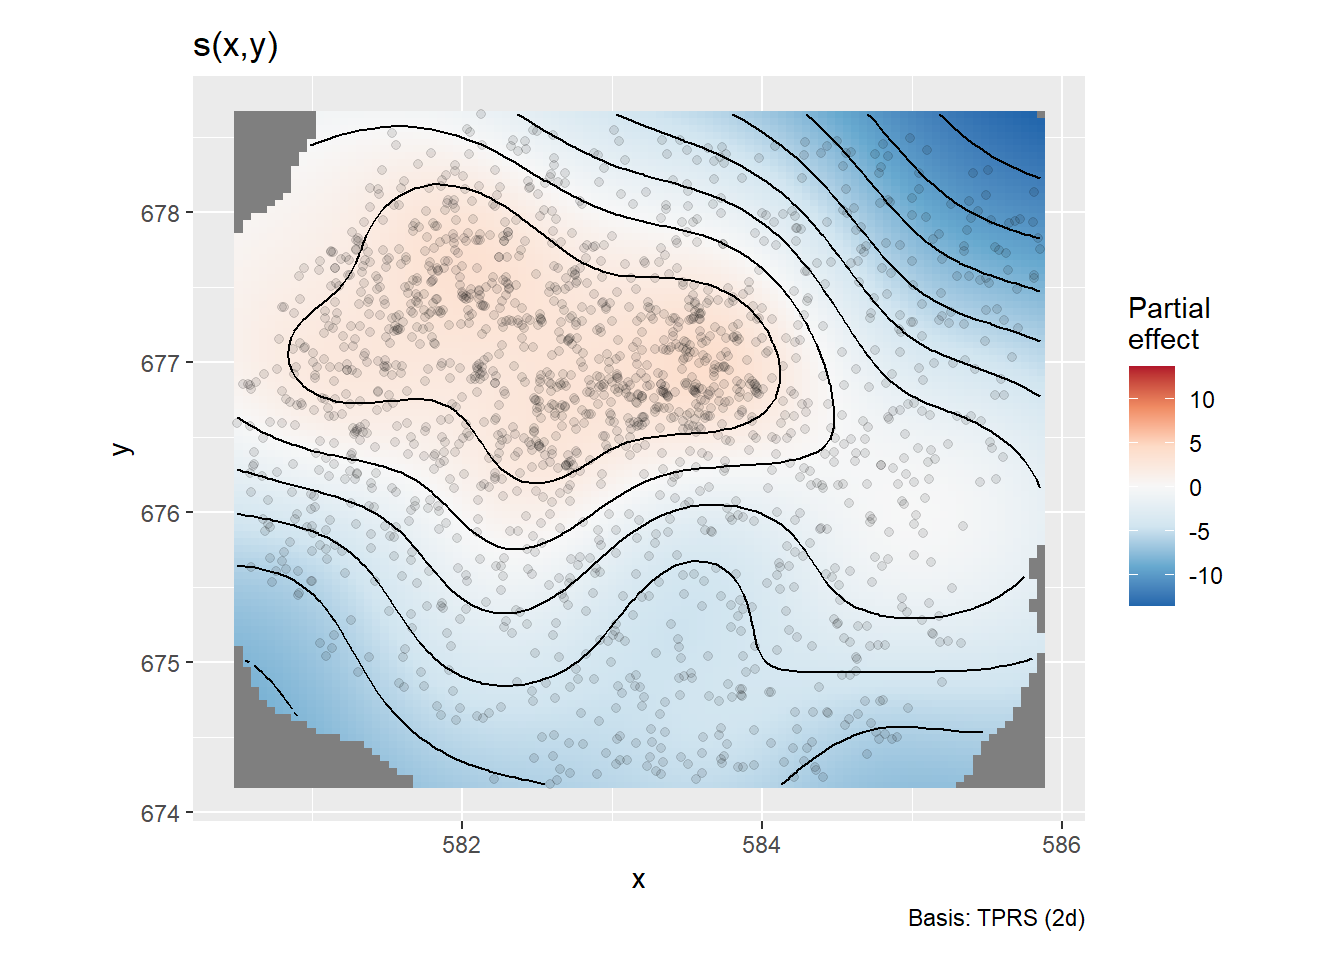
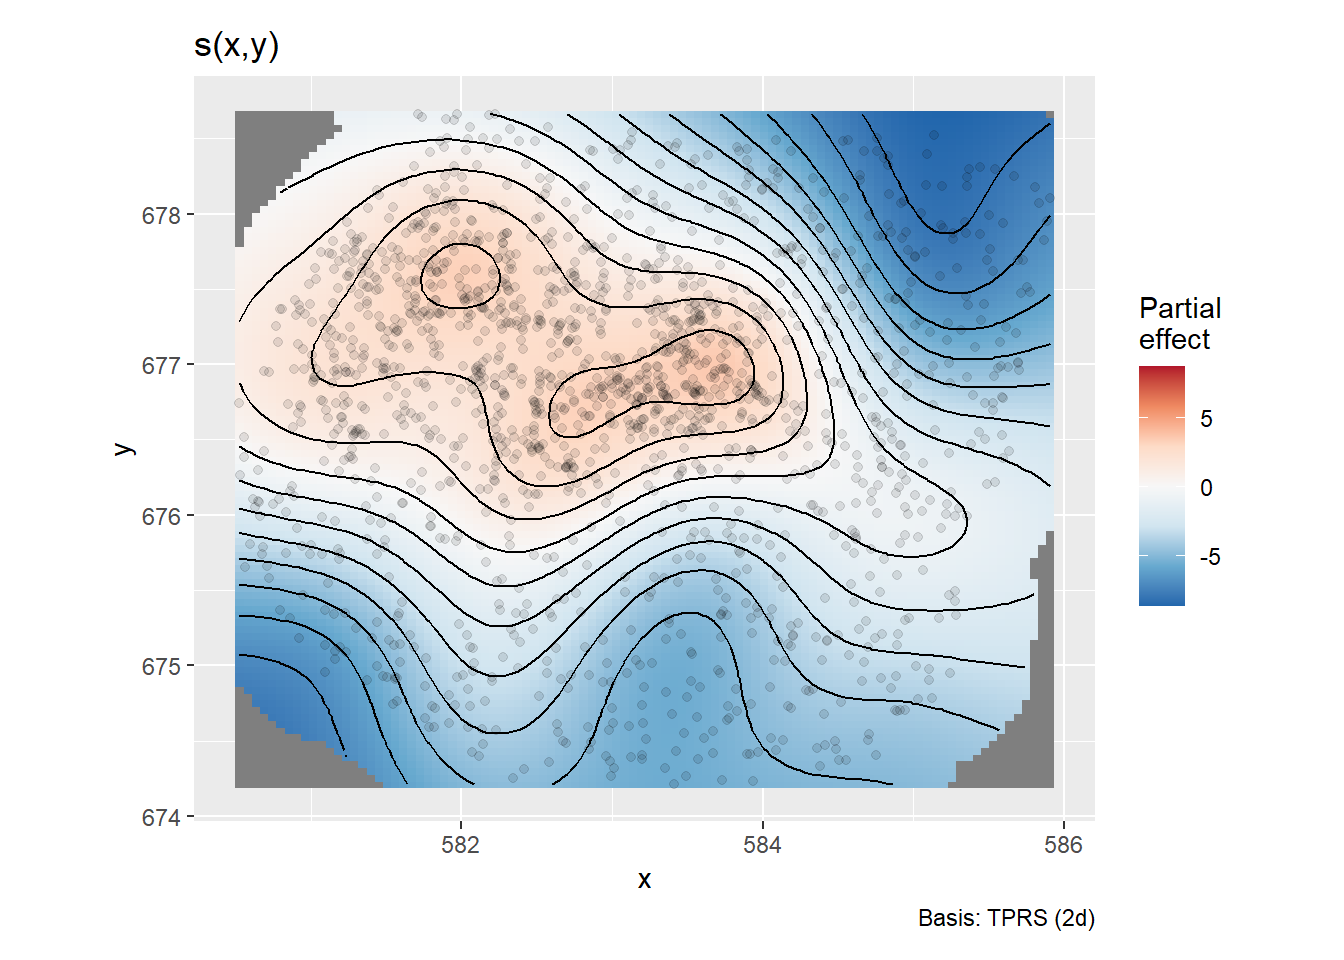
Built site for gh-pages

diff --git a/blog/drafts/lcgp-mgcv.html b/blog/drafts/lcgp-mgcv.html
@@ -724,17 +724,17 @@ glm(formula = n/wts ~ 0 + x * y, family = poisson(), data = gor_scale_df,
 
 Coefficients:
       Estimate Std. Error z value Pr(&gt;|z|)    
-x   -0.6514517  0.0451625 -14.425  &lt; 2e-16 ***
-y    0.3184408  0.0261495  12.178  &lt; 2e-16 ***
-x:y  0.0004251  0.0000748   5.683 1.33e-08 ***
+x   -5.504e-01  4.418e-02  -12.46  &lt; 2e-16 ***
+y    3.320e-01  2.634e-02   12.60  &lt; 2e-16 ***
+x:y  2.525e-04  7.514e-05    3.36 0.000779 ***
 ---
 Signif. codes:  0 '***' 0.001 '**' 0.01 '*' 0.05 '.' 0.1 ' ' 1
 
 (Dispersion parameter for poisson family taken to be 1)
 
     Null deviance: 16623  on 1647  degrees of freedom
-Residual deviance: 13017  on 1644  degrees of freedom
-AIC: 13023
+Residual deviance: 13057  on 1644  degrees of freedom
+AIC: 13063
 
 Number of Fisher Scoring iterations: 16</code></pre>
 </div>
@@ -762,15 +762,15 @@ n/wts ~ 0 + x * y
 
 Parametric coefficients:
       Estimate Std. Error z value Pr(&gt;|z|)    
-x   -0.6514517  0.0451625 -14.425  &lt; 2e-16 ***
-y    0.3184408  0.0261495  12.178  &lt; 2e-16 ***
-x:y  0.0004251  0.0000748   5.683 1.33e-08 ***
+x   -5.504e-01  4.418e-02  -12.46  &lt; 2e-16 ***
+y    3.320e-01  2.634e-02   12.60  &lt; 2e-16 ***
+x:y  2.525e-04  7.514e-05    3.36 0.000779 ***
 ---
 Signif. codes:  0 '***' 0.001 '**' 0.01 '*' 0.05 '.' 0.1 ' ' 1
 
 
-R-sq.(adj) =  -0.00122   Deviance explained = 2.64%
--REML = 6528.8  Scale est. = 1         n = 1647</code></pre>
+R-sq.(adj) =  -0.00122   Deviance explained = 2.34%
+-REML = 6548.6  Scale est. = 1         n = 1647</code></pre>
 </div>
 </div>
 </section>
@@ -787,8 +787,8 @@ R-sq.(adj) =  -0.00122   Deviance explained = 2.64%
 <div class="cell-output cell-output-stdout">
 <pre><code>  method        b_1       b_2          b_3
 1    ppm -0.5658078 0.3173808 0.0003003385
-2    glm -0.6514517 0.3184408 0.0004250712
-3    gam -0.6514517 0.3184408 0.0004250712</code></pre>
+2    glm -0.5504253 0.3320244 0.0002524700
+3    gam -0.5504253 0.3320244 0.0002524700</code></pre>
 </div>
 </div>
 </section>
@@ -862,18 +862,18 @@ n/wts ~ s(x, y)
 
 Parametric coefficients:
             Estimate Std. Error z value Pr(&gt;|z|)    
-(Intercept)   2.1592     0.2538   8.507   &lt;2e-16 ***
+(Intercept)   2.2556     0.2421   9.317   &lt;2e-16 ***
 ---
 Signif. codes:  0 '***' 0.001 '**' 0.01 '*' 0.05 '.' 0.1 ' ' 1
 
 Approximate significance of smooth terms:
-         edf Ref.df Chi.sq p-value    
-s(x,y) 22.82  25.53  587.5  &lt;2e-16 ***
+        edf Ref.df Chi.sq p-value    
+s(x,y) 22.7  25.48  493.4  &lt;2e-16 ***
 ---
 Signif. codes:  0 '***' 0.001 '**' 0.01 '*' 0.05 '.' 0.1 ' ' 1
 
-R-sq.(adj) =  -0.014   Deviance explained = 12.7%
--REML = 5887.6  Scale est. = 1         n = 1647</code></pre>
+R-sq.(adj) =  -0.0139   Deviance explained = 11.4%
+-REML = 5971.5  Scale est. = 1         n = 1647</code></pre>
 </div>
 <div class="sourceCode cell-code" id="cb68"><pre class="sourceCode r code-with-copy"><code class="sourceCode r"><span id="cb68-1"><a href="#cb68-1" aria-hidden="true" tabindex="-1"></a><span class="fu">draw</span>(gor_gam_ns_gam)</span></code><button title="Copy to Clipboard" class="code-copy-button"><i class="bi"></i></button></pre></div>
 <div class="cell-output-display">
@@ -892,7 +892,7 @@ R-sq.(adj) =  -0.014   Deviance explained = 12.7%
 </div>
 <div class="sourceCode cell-code" id="cb71"><pre class="sourceCode r code-with-copy"><code class="sourceCode r"><span id="cb71-1"><a href="#cb71-1" aria-hidden="true" tabindex="-1"></a><span class="fu">range</span>(<span class="fu">predict</span>(gor_gam_ns_gam, <span class="at">type =</span> <span class="st">'response'</span>))</span></code><button title="Copy to Clipboard" class="code-copy-button"><i class="bi"></i></button></pre></div>
 <div class="cell-output cell-output-stdout">
-<pre><code>[1] 8.187043e-05 4.357467e+02</code></pre>
+<pre><code>[1] 1.844424e-03 3.189666e+02</code></pre>
 </div>
 </div>
 <p>I think this comes down to the way in which <code>spatstat</code> calculates weights (likely more correctly), and that <code>spatstat</code> uses <code>quasi(link="log", variance="mu")</code> for its error family. The predictions between the two methods do get closer by doing this, though not as close as they were before. We also start getting into issues with quasilikelihood and not being able to use AIC, etc., so it’s not really desirable.</p>
@@ -916,22 +916,22 @@ n/wts ~ s(x, y)
 
 Parametric coefficients:
             Estimate Std. Error t value Pr(&gt;|t|)    
-(Intercept)   2.7092     0.1258   21.53   &lt;2e-16 ***
+(Intercept)   2.7580     0.1161   23.75   &lt;2e-16 ***
 ---
 Signif. codes:  0 '***' 0.001 '**' 0.01 '*' 0.05 '.' 0.1 ' ' 1
 
 Approximate significance of smooth terms:
-        edf Ref.df     F p-value    
-s(x,y) 14.9   18.8 35.74  &lt;2e-16 ***
+         edf Ref.df     F p-value    
+s(x,y) 14.43  18.36 31.55  &lt;2e-16 ***
 ---
 Signif. codes:  0 '***' 0.001 '**' 0.01 '*' 0.05 '.' 0.1 ' ' 1
 
-R-sq.(adj) =  -0.00908   Deviance explained = 12.2%
--REML = 8891.6  Scale est. = 1.0097    n = 1647</code></pre>
+R-sq.(adj) =  -0.0088   Deviance explained = 10.9%
+-REML = 8902.1  Scale est. = 1.0094    n = 1647</code></pre>
 </div>
 <div class="sourceCode cell-code" id="cb75"><pre class="sourceCode r code-with-copy"><code class="sourceCode r"><span id="cb75-1"><a href="#cb75-1" aria-hidden="true" tabindex="-1"></a><span class="fu">range</span>(<span class="fu">predict</span>(gor_gam_ns_gam_quasi, <span class="at">type =</span> <span class="st">'response'</span>))</span></code><button title="Copy to Clipboard" class="code-copy-button"><i class="bi"></i></button></pre></div>
 <div class="cell-output cell-output-stdout">
-<pre><code>[1]   0.05104336 317.09393438</code></pre>
+<pre><code>[1]   0.05338048 231.56416220</code></pre>
 </div>
 <div class="sourceCode cell-code" id="cb77"><pre class="sourceCode r code-with-copy"><code class="sourceCode r"><span id="cb77-1"><a href="#cb77-1" aria-hidden="true" tabindex="-1"></a><span class="fu">draw</span>(gor_gam_ns_gam_quasi,</span>
 <span id="cb77-2"><a href="#cb77-2" aria-hidden="true" tabindex="-1"></a>     <span class="at">fun =</span> <span class="cf">function</span>(.){</span>
@@ -951,10 +951,38 @@ R-sq.(adj) =  -0.00908   Deviance explained = 12.2%
 </section>
 <section id="next-steps" class="level2">
 <h2 class="anchored" data-anchor-id="next-steps">Next steps… ?</h2>
+<p>As far as I can tell, a log-Gaussian Cox process views the intensity as some latent intensity (the model intercept), as above, plus some spatial error term/intensity, usually noted as <span class="math inline">\(\xi\)</span>, plus some covariates. So, a point process model plus a spatial smooth (maybe?). The latent</p>
+<p><span class="math inline">\(\xi\)</span> seems to me to be analogous to a spatial random effect: it is centered on zero with values following a Gaussian Random Field. So, where <span class="math inline">\(\beta_0\)</span> is the baseline intensity, <span class="math inline">\(\xi\)</span> is that Gaussian Random Field, and other <span class="math inline">\(\beta\)</span>s are covariates that vary spatially according to X, Y, or their interaction:</p>
 <p><span class="math display">\[
-log(\lambda) \sim \beta_0 + \beta_1X + \beta_2Y + \beta_3XY + \xi
+log(\lambda(X,Y)) \sim \beta_0 + \beta_1X + \beta_2Y + \beta_3XY + \xi(X,Y)
+\]</span> The SPDE Gitbook has some further details spoken about more-knowledgably than I could ever manage: (https://becarioprecario.bitbucket.io/spde-gitbook/ch-lcox.html)[https://becarioprecario.bitbucket.io/spde-gitbook/ch-lcox.html].</p>
+<p>In <code>mgcv</code> we can add in a smooth that I think <em>could</em> be an analogue to <span class="math inline">\(\xi\)</span>.</p>
+<p><span class="math display">\[
+log(\lambda(X,Y)) \sim \beta_0 + ... + s(X,Y) + \epsilon
 \]</span></p>
-<p>https://becarioprecario.bitbucket.io/spde-gitbook/ch-lcox.html point process with centered smooth?</p>
+<p>My thought process/questions around this are now:</p>
+<ul>
+<li><code>mgcv</code> can only fit i.i.d random effects, which necessitates factor variables. R-INLA can fit a whole bunch of <a href="https://becarioprecario.bitbucket.io/inla-gitbook/ch-mixed.html#sec:mixed-types">random effects</a>, including “rw2d” (a random walk in 2 dimensions) and “matern2d” (a Gaussian field with Matérn correlation) which are often used to find <span class="math inline">\(\xi\)</span>; more info here: <a href="https://becarioprecario.bitbucket.io/inla-gitbook/ch-spatial.html">https://becarioprecario.bitbucket.io/inla-gitbook/ch-spatial.html</a>. This is why we often see spatial models using R-INLA.
+<ul>
+<li>Because of this, we can’t <code>mgcv</code> random effect smooth to get things done for us.</li>
+</ul></li>
+<li>In order to approximate <span class="math inline">\(\xi\)</span> in <code>mgcv</code>:
+<ul>
+<li>Are the current spatial smooths (<code>bs = 'mrf'</code>, <code>bs = 'gp'</code>) centered on zero?</li>
+<li>If not, can we constrain them to be so?</li>
+</ul></li>
+<li>Does the regular, non-spatial error that <code>mgcv</code> assumes, <span class="math inline">\(\epsilon\)</span>, screw this up, or can we just treat it as being eaten up by the other terms?</li>
+<li>Reading through the (SPDE book)[https://becarioprecario.bitbucket.io/spde-gitbook/ch-lcox.html], the actual model <em>may</em> be two hierarchical models, the first fitting the latent intensity (the intercept) and the second fitting the spatial error conditional on that intercept. So, something like the following (which is wrong, but I can’t figure out the right annotation in my head):</li>
+</ul>
+<p><span class="math display">\[
+  log(\lambda) \sim \beta_0
+  \]</span> <span class="math display">\[
+  log(\lambda) - \beta_0 \sim \xi
+  \]</span></p>
+<ul>
+<li>If it is something like that, can <code>mgcv</code> fit nested models?</li>
+<li>Am I overthinking this? (Probably.)</li>
+</ul>
 
 
 

diff --git a/blog/2023/01_23_henrico_parcels/index.html b/blog/2023/01_23_henrico_parcels/index.html
@@ -215,7 +215,7 @@ pre > code.sourceCode > span > a:first-child::before { text-decoration: underlin
 
 
 <p>A recent tweet showed the age of the buildings in Groningen, Netherlands super-imposed on LiDAR data for some perspective.</p>
-<p></p><div id="tweet-82090"></div><script>tweet={"url":"https:\/\/twitter.com\/neilcfd1\/status\/1560616470148575233","author_name":"Neil Southall","author_url":"https:\/\/twitter.com\/neilcfd1","html":"\u003Cblockquote class=\"twitter-tweet\" align=\"center\"\u003E\u003Cp lang=\"en\" dir=\"ltr\"\u003EHaven&#39;t done a Building Age render for a while - here is Groningen, Netherlands\u003Cbr\u003EBuilding age data \u003Ca href=\"https:\/\/twitter.com\/INSPIRE_EU?ref_src=twsrc%5Etfw\"\u003E@INSPIRE_EU\u003C\/a\u003E \u003Ca href=\"https:\/\/twitter.com\/Het_Kadaster?ref_src=twsrc%5Etfw\"\u003E@Het_Kadaster\u003C\/a\u003E overlaid on LiDAR height data (from \u003Ca href=\"https:\/\/t.co\/Sm0VEFXOXs\"\u003Ehttps:\/\/t.co\/Sm0VEFXOXs\u003C\/a\u003E).  Rendered in \u003Ca href=\"https:\/\/twitter.com\/hashtag\/rayshader?src=hash&amp;ref_src=twsrc%5Etfw\"\u003E#rayshader\u003C\/a\u003E \u003Ca href=\"https:\/\/twitter.com\/hashtag\/rstats?src=hash&amp;ref_src=twsrc%5Etfw\"\u003E#rstats\u003C\/a\u003E \u003Ca href=\"https:\/\/t.co\/CElUxvn1W6\"\u003Epic.twitter.com\/CElUxvn1W6\u003C\/a\u003E\u003C\/p\u003E&mdash; Neil Southall (@neilcfd1) \u003Ca href=\"https:\/\/twitter.com\/neilcfd1\/status\/1560616470148575233?ref_src=twsrc%5Etfw\"\u003EAugust 19, 2022\u003C\/a\u003E\u003C\/blockquote\u003E\n\u003Cscript async src=\"https:\/\/platform.twitter.com\/widgets.js\" charset=\"utf-8\"\u003E\u003C\/script\u003E\n\n","width":550,"height":null,"type":"rich","cache_age":"3153600000","provider_name":"Twitter","provider_url":"https:\/\/twitter.com","version":"1.0"};document.getElementById("tweet-82090").innerHTML = tweet["html"];</script><p></p>
+<p></p><div id="tweet-85111"></div><script>tweet={"url":"https:\/\/twitter.com\/neilcfd1\/status\/1560616470148575233","author_name":"Neil Southall","author_url":"https:\/\/twitter.com\/neilcfd1","html":"\u003Cblockquote class=\"twitter-tweet\" align=\"center\"\u003E\u003Cp lang=\"en\" dir=\"ltr\"\u003EHaven&#39;t done a Building Age render for a while - here is Groningen, Netherlands\u003Cbr\u003EBuilding age data \u003Ca href=\"https:\/\/twitter.com\/INSPIRE_EU?ref_src=twsrc%5Etfw\"\u003E@INSPIRE_EU\u003C\/a\u003E \u003Ca href=\"https:\/\/twitter.com\/Het_Kadaster?ref_src=twsrc%5Etfw\"\u003E@Het_Kadaster\u003C\/a\u003E overlaid on LiDAR height data (from \u003Ca href=\"https:\/\/t.co\/Sm0VEFXOXs\"\u003Ehttps:\/\/t.co\/Sm0VEFXOXs\u003C\/a\u003E).  Rendered in \u003Ca href=\"https:\/\/twitter.com\/hashtag\/rayshader?src=hash&amp;ref_src=twsrc%5Etfw\"\u003E#rayshader\u003C\/a\u003E \u003Ca href=\"https:\/\/twitter.com\/hashtag\/rstats?src=hash&amp;ref_src=twsrc%5Etfw\"\u003E#rstats\u003C\/a\u003E \u003Ca href=\"https:\/\/t.co\/CElUxvn1W6\"\u003Epic.twitter.com\/CElUxvn1W6\u003C\/a\u003E\u003C\/p\u003E&mdash; Neil Southall (@neilcfd1) \u003Ca href=\"https:\/\/twitter.com\/neilcfd1\/status\/1560616470148575233?ref_src=twsrc%5Etfw\"\u003EAugust 19, 2022\u003C\/a\u003E\u003C\/blockquote\u003E\n\u003Cscript async src=\"https:\/\/platform.twitter.com\/widgets.js\" charset=\"utf-8\"\u003E\u003C\/script\u003E\n\n","width":550,"height":null,"type":"rich","cache_age":"3153600000","provider_name":"Twitter","provider_url":"https:\/\/twitter.com","version":"1.0"};document.getElementById("tweet-85111").innerHTML = tweet["html"];</script><p></p>
 <p>This got me thinking – what would Henrico look like? I’m going to take the cheap way out and not mess with LiDAR at the moment, but the county provides their <a href="https://data-henrico.opendata.arcgis.com/datasets/Henrico::tax-parcels-and-cama-data/explore">Tax Parcels and CAMA Data</a> for easy download.</p>
 <div class="callout callout-style-default callout-note callout-titled">
 <div class="callout-header d-flex align-content-center">
